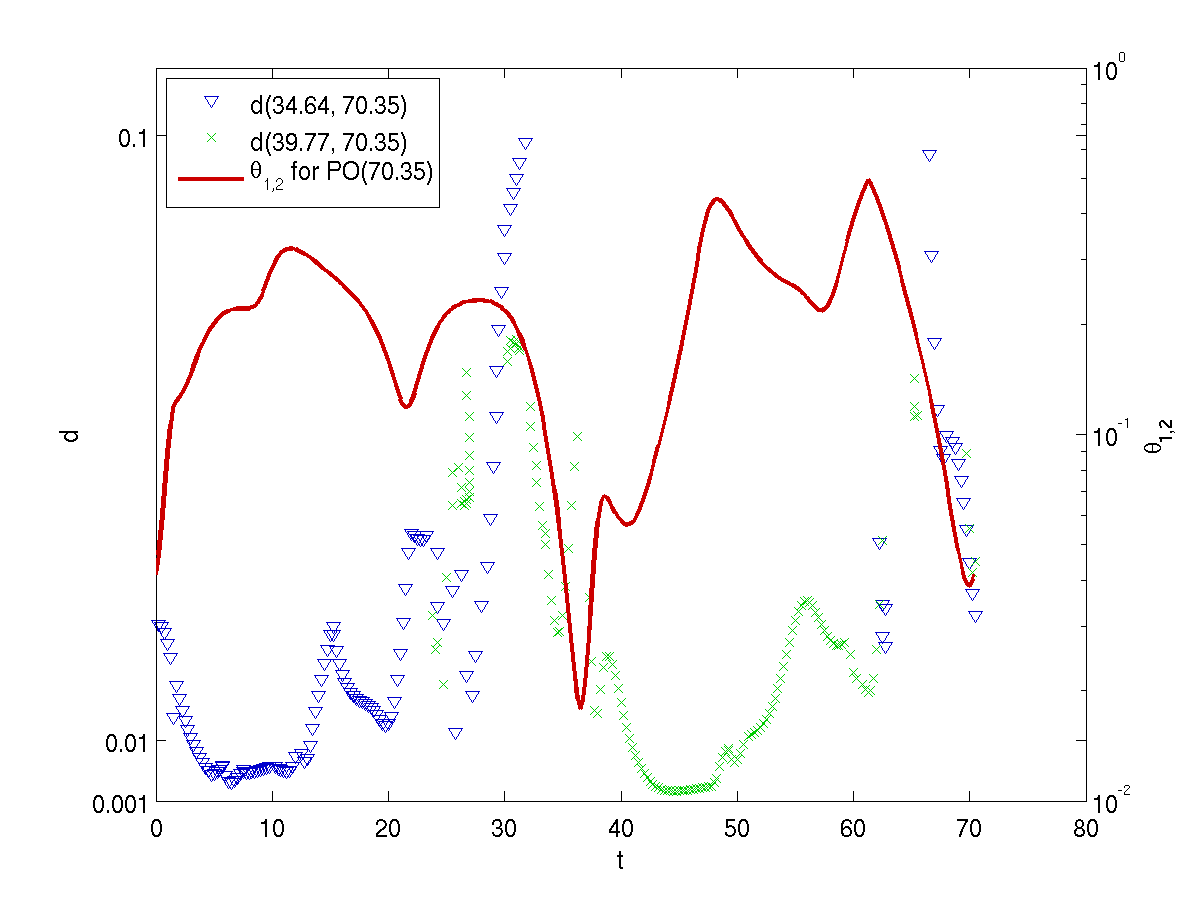
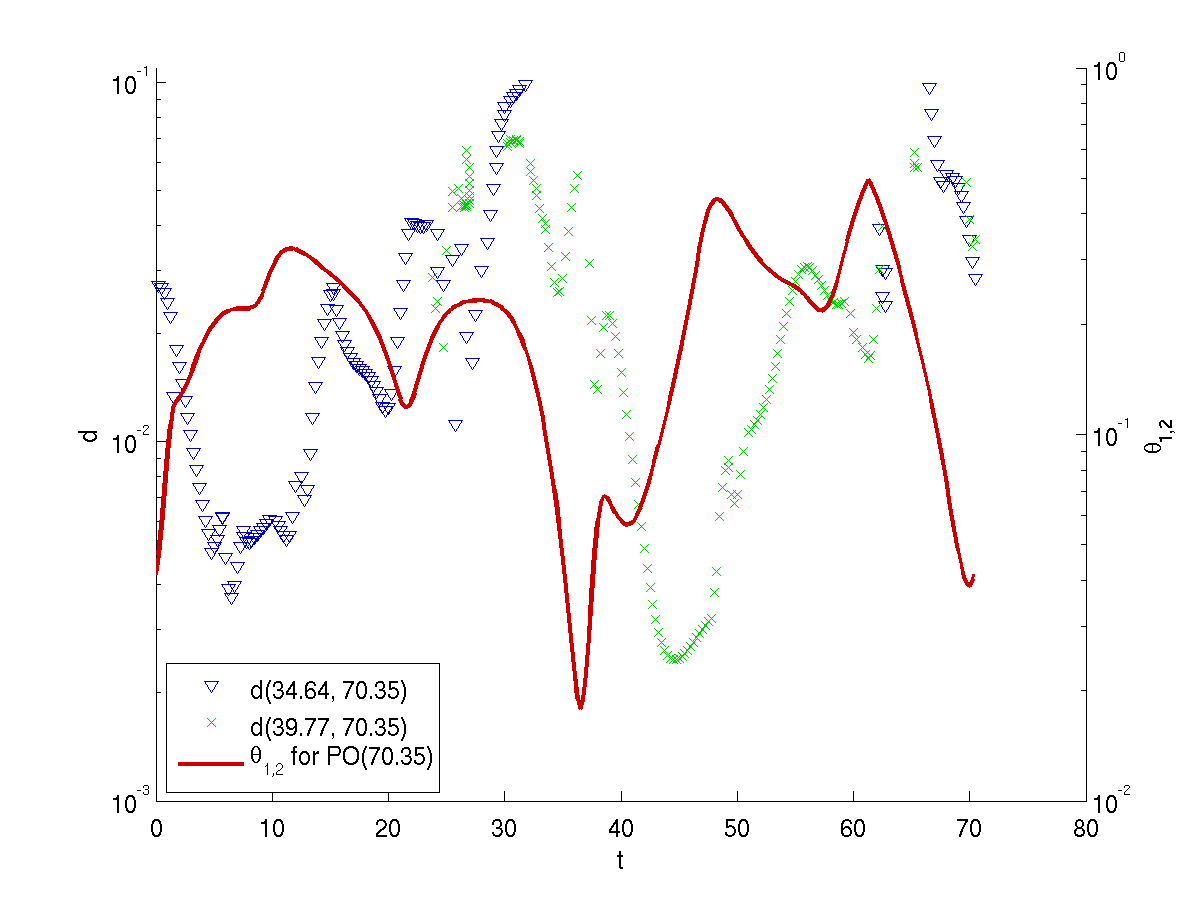
Went around a matlab quirk. Igonre.

diff --git a/matlab/ruslan/ks22shad.m b/matlab/ruslan/ks22shad.m
@@ -146,17 +146,25 @@ minanglpos=find( angl(:,1) == min(angl(:,1)));
 fig4=figure();
 hold on;
 
-[AX,H1,H2] =plotyy(pos*h,d,tt0,angl(:,1)/pi,'semilogy');
+[AX,H1,H2] =plotyy(pos*h,d,tt0,angl(:,1)/pi);
+
+% set(AX,'YTick', []);
+% set(AX(2),'YMinorTick', 'off');
+
 
 set(H1,'LineStyle','v', 'Color', [0 0 0.8]);
 set(H2,'LineStyle','-', 'Color', [0.8 0 0], 'LineWidth', 2);
 
-semilogy(pos1*h,d1,'x','Color', [0 0.8 0]);
+plot(pos1*h,d1,'x','Color', [0 0.8 0]);
 
+set(AX,'YScale', 'log');
+
+set(AX(1),'Box','off');
 set(AX(1),'YLim', [1e-3 0.11]);
 set(AX(1),'YTick', [1e-3 1e-2 1e-1 1]);
 set(AX(2),'YLim', [1e-2 1]);
-set(AX(2),'YTick', [1e-3 1e-2 1e-1 1]);
+set(AX(2),'YTick', [1e-3 1e-2 1e-1 1]); 
+
 set(AX(1),'YColor', 'k', 'FontSize', 11); 
 set(AX(2),'YColor', 'k', 'FontSize', 11); 
 set(get(AX(1),'Ylabel'),'String','d','FontSize', 12);
@@ -166,7 +174,7 @@ xlabel('t');
 l1=['d(' num2str(rpo(ipo).T,4) ', ' num2str(ppo(refpo).T,4) ')'];
 l3=['\theta_{1,2} for PO(' num2str(ppo(refpo).T,4) ')'];
 l2=['d(' num2str(rpo(ipo1).T,4) ', ' num2str(ppo(refpo).T,4) ')'];
-legend(l1,l2,l3, 'Location', 'NorthWest' );
+legend(l1,l2,l3, 'Location', 'SouthWest' );
 
 saveas(fig4, ['ks22ppoT', '7035', 'angl_dist.png']);
 saveas(fig4, ['ks22ppoT', '7035', 'angl_dist.pdf']);
@@ -283,17 +291,25 @@ minanglpos=find( angl(:,1) == min(angl(:,1)));
 fig4=figure();
 hold on;
 
-[AX,H1,H2] =plotyy(pos*h,d,tt0,angl(:,1)/pi,'semilogy');
+[AX,H1,H2] =plotyy(pos*h,d,tt0,angl(:,1)/pi);
+
+% set(AX,'YTick', []);
+% set(AX(2),'YMinorTick', 'off');
+
 
 set(H1,'LineStyle','v', 'Color', [0 0 0.8]);
 set(H2,'LineStyle','-', 'Color', [0.8 0 0], 'LineWidth', 2);
 
-semilogy(pos1*h,d1,'x','Color', [0 0.8 0]);
+plot(pos1*h,d1,'x','Color', [0 0.8 0]);
 
+set(AX,'YScale', 'log');
+
+set(AX(1),'Box','off');
 set(AX(1),'YLim', [1e-3 0.1]);
 set(AX(1),'YTick', [1e-3 1e-2 1e-1 1]);
 set(AX(2),'YLim', [1e-3 2.5]);
 set(AX(2),'YTick', [1e-3 1e-2 1e-1 1]);
+
 set(AX(1),'YColor', 'k', 'FontSize', 11); 
 set(AX(2),'YColor', 'k', 'FontSize', 11); 
 set(get(AX(1),'Ylabel'),'String','d','FontSize', 12);
@@ -303,7 +319,7 @@ xlabel('t');
 l1=['d(' num2str(ppo(ipo).T,4) ', ' num2str(ppo(refpo).T,4) ')'];
 l3=['\theta_{1,2} for PO(' num2str(ppo(refpo).T,4) ')'];
 l2=['d(' num2str(ppo(ipo1).T,4) ', ' num2str(ppo(refpo).T,4) ')'];
-legend(l1,l2,l3, 'Location', 'NorthWest' );
+legend(l1,l2,l3, 'Location', 'SouthEast' );
 
 saveas(fig4, ['ks22ppoT', '10235', 'angl_dist.png']);
 saveas(fig4, ['ks22ppoT', '10235', 'angl_dist.pdf']);
@@ -311,7 +327,7 @@ saveas(fig4, ['ks22ppoT', '10235', 'angl_dist.eps']);
 
 %%%% ppo 41 might be shadowed by ppo 5 and ppo 6.
 
-%% Shadowing of PO(90.22)
+%% Shadowing of PO(90.22) -- Defunct (missing data?)
 
 clear; load ks22f90h25.mat;
 h=0.25; N=16; L=22;
@@ -415,24 +431,32 @@ fexp_ipo1 = [log(abs(ppo(ipo1).e(1)))/ppo(ipo1).T, log(abs(ppo(ipo1).e(4)))/ppo(
 
 %%%%%
 
-angl=load('ks22ppo_angl_54.dat');
+angl=load('ks22ppo_angl_97.dat');
 
 minanglpos=find( angl(:,1) == min(angl(:,1)));
 
 fig4=figure();
 hold on;
 
-[AX,H1,H2] =plotyy(pos*h,d,tt0,angl(:,1)/pi,'semilogy');
+[AX,H1,H2] =plotyy(pos*h,d,tt0,angl(:,1)/pi);
+
+% set(AX,'YTick', []);
+% set(AX(2),'YMinorTick', 'off');
+
 
 set(H1,'LineStyle','v', 'Color', [0 0 0.8]);
 set(H2,'LineStyle','-', 'Color', [0.8 0 0], 'LineWidth', 2);
 
-semilogy(pos1*h,d1,'x','Color', [0 0.8 0]);
+plot(pos1*h,d1,'x','Color', [0 0.8 0]);
 
+set(AX,'YScale', 'log');
+
+set(AX(1),'Box','off');
 set(AX(1),'YLim', [1e-3 0.1]);
 set(AX(1),'YTick', [1e-3 1e-2 1e-1 1]);
 set(AX(2),'YLim', [1e-3 2.5]);
 set(AX(2),'YTick', [1e-3 1e-2 1e-1 1]);
+
 set(AX(1),'YColor', 'k', 'FontSize', 11); 
 set(AX(2),'YColor', 'k', 'FontSize', 11); 
 set(get(AX(1),'Ylabel'),'String','d','FontSize', 12);

diff --git a/lyapunov/KS.tex b/lyapunov/KS.tex
@@ -1634,7 +1634,10 @@ in logarithmic scale to emphasize close passages.
 {\bf 2011-11-16 Predrag}
 Sorry, I see that the right edge of \reffig{fig:ks22shad}\,(c) is logarithmic
 but I guess I do not understand the left edge - shouldn't 0.1, 0.01 and 0.001
-be equally spaced?
+be equally spaced? {\bf 2012-05-21 Evangelos} Sorry, it is fixed now. 
+(It ways very quirky to do it correctly. It seems matlab refuses to 
+plot both axes in log scale in a straitforward manner, 
+or it's just that I've learned it after 30.) 
 
 \item[2012-02-06 Evangelos] Talked with Hugues at MPIPKS, created a to-do list:
 \begin{itemize}
